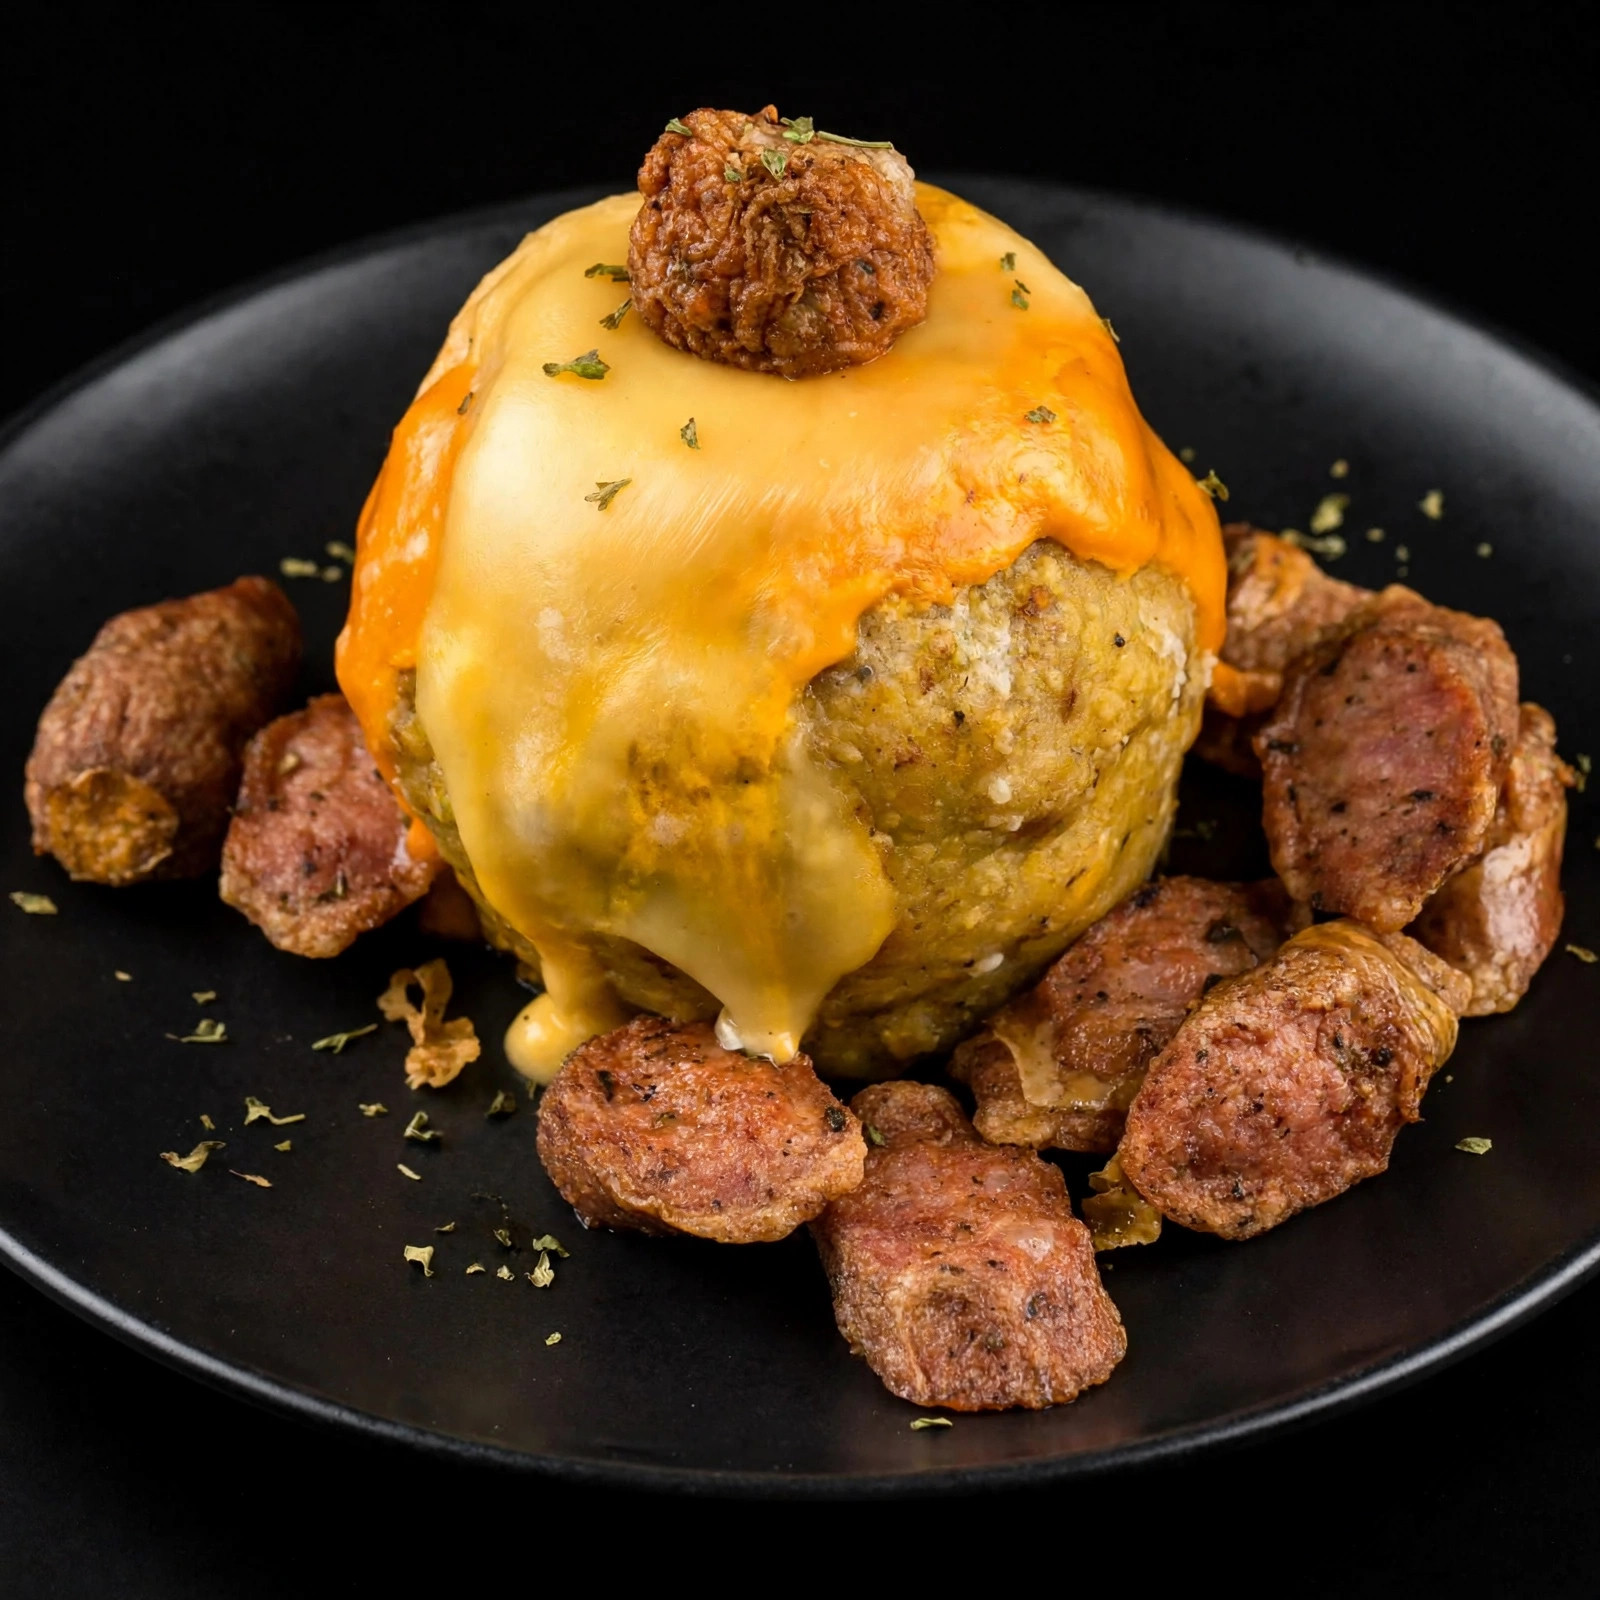
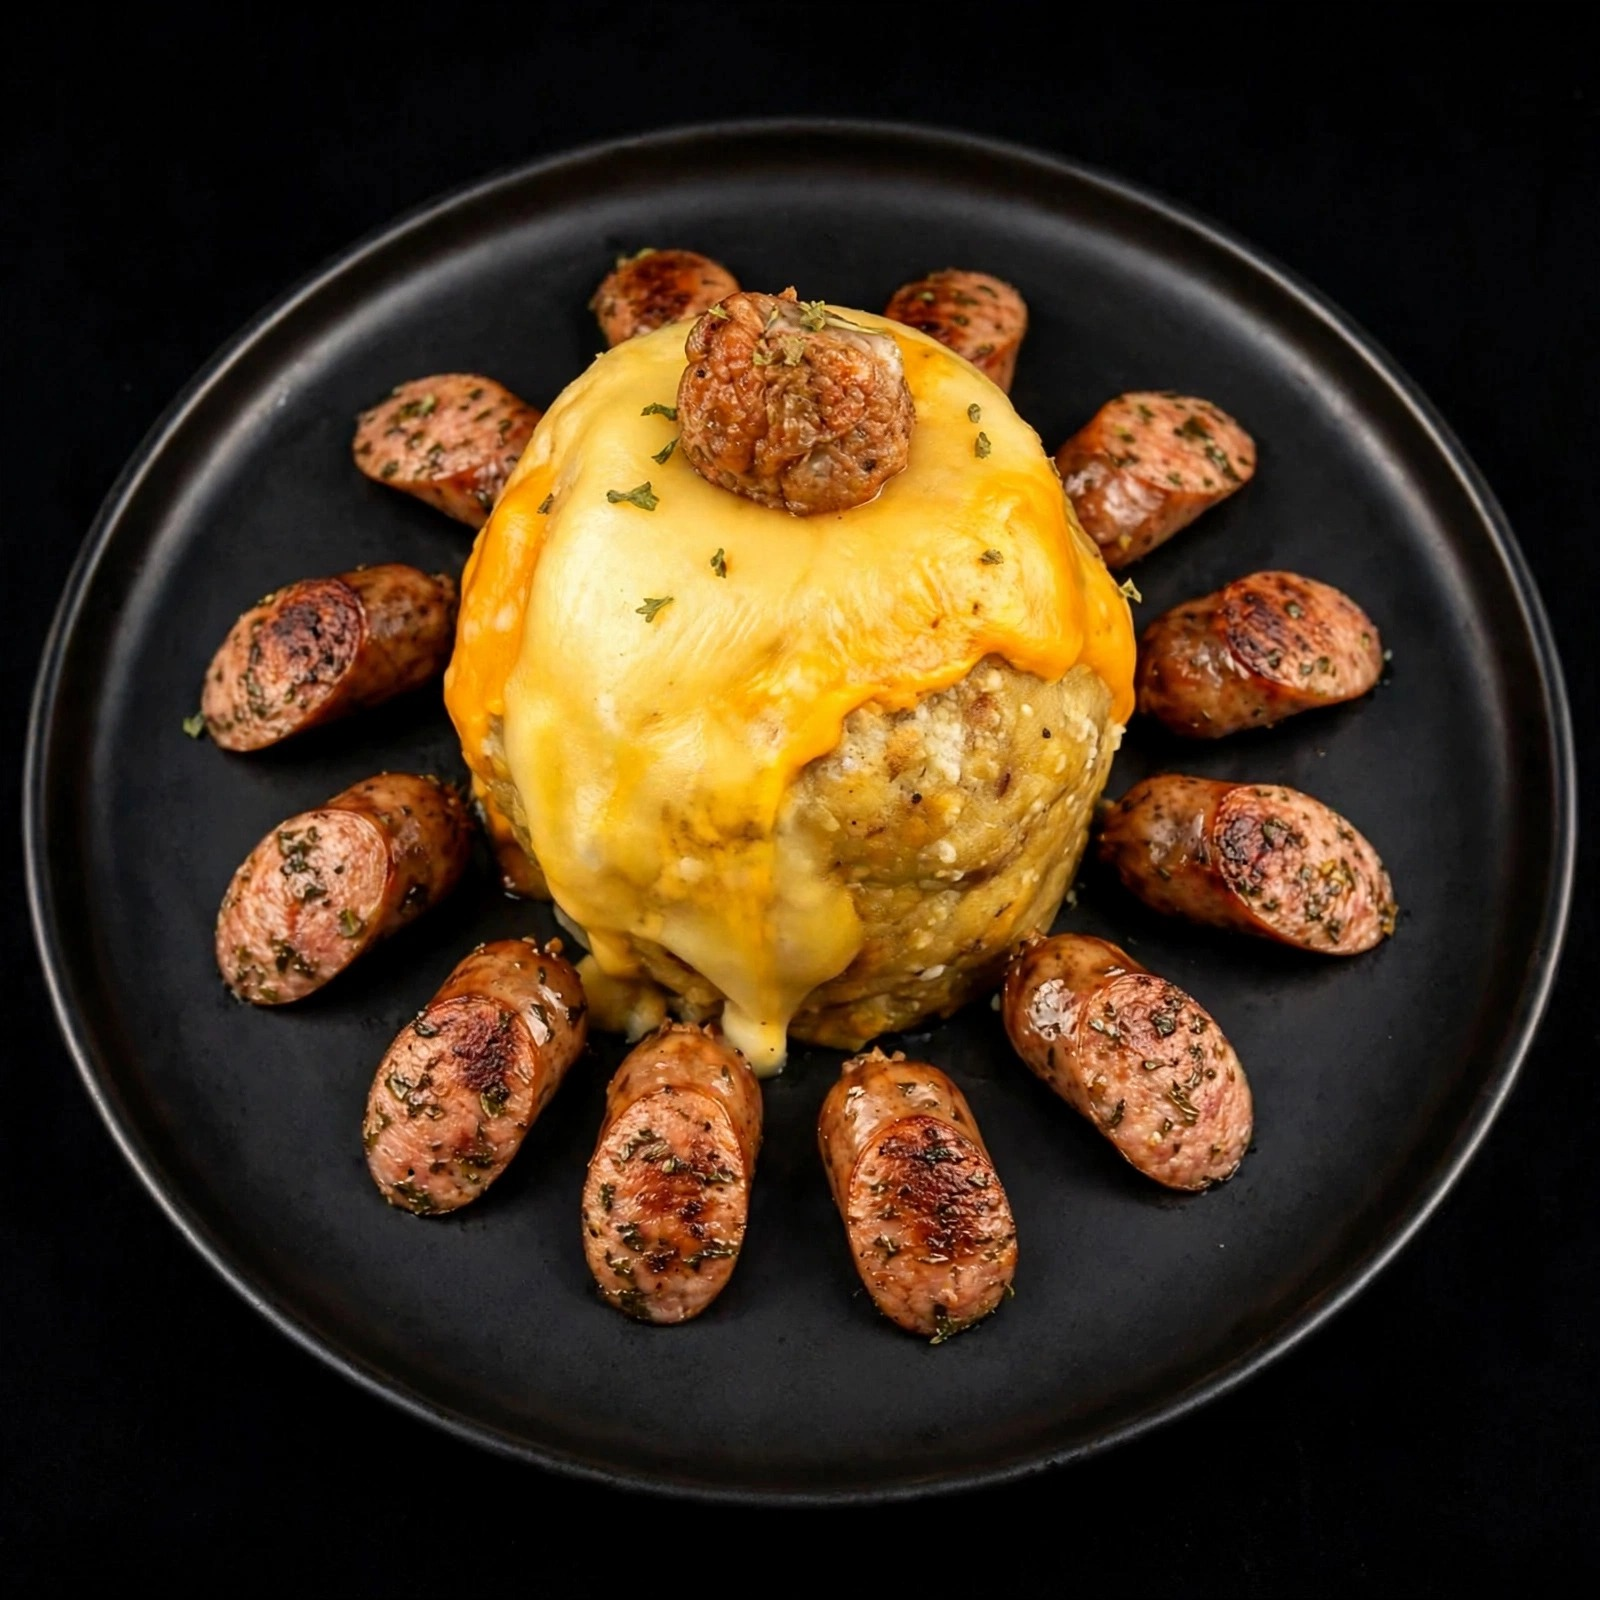
Use recreated black-plate photos for all 29 dishes; remove hours from navbar
- Stage all 29 recreated JPGs (incl. redone mofongo-con-longaniza and
  yaroa) into src/assets/images/dishes/; add platePhoto to every dish in
  src/data/menu.ts so all dish cards (menu grid + favorites) use the
  recreated photo; home gallery switches to the recreated versions too.
  Hero chimi (23), storefront (28) and interior (25) stay the real photos.
- Regenerate pescado-con-fritos: the first version's tail fin touched the
  bottom rim; new version centers the fish with clear plate margin.
- Remove the MIÉ–DOM hours element (.cs-hours) from the navbar on all
  breakpoints; hours stay in the hero info line, VisitInfo and footer.

diff --git a/src/data/menu.ts b/src/data/menu.ts
@@ -1,6 +1,6 @@
 import type { ImageMetadata } from "astro";
 
-// Dish photos live in src/assets/images/dishes/ (31 real WebP + 4 recreated
+// Dish photos live in src/assets/images/dishes/ (31 real WebP + 29 recreated
 // black-plate JPG). Resolved with import.meta.glob so <Image> gets real
 // metadata without 35 static imports.
 const images = import.meta.glob<{ default: ImageMetadata }>(
@@ -26,7 +26,7 @@ export interface Dish {
 	category: string;
 	/** real photo file in src/assets/images/dishes/ */
 	photo: string;
-	/** recreated black-plate shot (only the 4 favorites have one) */
+	/** recreated black-plate shot (all 29 dishes have one) */
 	platePhoto?: string;
 	options: DishOption[];
 }
@@ -65,6 +65,7 @@ export const DISHES: Dish[] = [
 		desc: "Clásico hot dog de la casa.",
 		category: "hamburguesas",
 		photo: "04-hot-dog.webp",
+		platePhoto: "hot-dog-black-plate.jpg",
 		options: [{ label: "Clásico", price: 150 }],
 	},
 	{
@@ -73,6 +74,7 @@ export const DISHES: Dish[] = [
 		desc: "Hot dog con papas fritas.",
 		category: "hamburguesas",
 		photo: "05-hotdog-con-papas.webp",
+		platePhoto: "hotdog-con-papa-black-plate.jpg",
 		options: [
 			{ label: "Solo", price: 150 },
 			{ label: "Con papa", price: 250 },
@@ -93,6 +95,7 @@ export const DISHES: Dish[] = [
 		desc: "Mofongo con pechuga a la plancha.",
 		category: "mofongo",
 		photo: "29-mofongo-con-camarones-a-la-crema.webp",
+		platePhoto: "mofongo-con-pechuga-black-plate.jpg",
 		options: [{ label: "Plato", price: 450 }],
 	},
 	{
@@ -101,6 +104,7 @@ export const DISHES: Dish[] = [
 		desc: "Mofongo con camarones a la crema.",
 		category: "mofongo",
 		photo: "29-mofongo-con-camarones-a-la-crema.webp",
+		platePhoto: "mofongo-con-camarones-a-la-crema-black-plate.jpg",
 		options: [{ label: "Plato", price: 600 }],
 	},
 	{
@@ -118,6 +122,7 @@ export const DISHES: Dish[] = [
 		desc: "Chuleta a la plancha con papas fritas.",
 		category: "plancha",
 		photo: "01-chuleta-a-la-plancha-con-papas.webp",
+		platePhoto: "chuleta-a-la-plancha-black-plate.jpg",
 		options: [{ label: "Plato", price: 400 }],
 	},
 	{
@@ -126,6 +131,7 @@ export const DISHES: Dish[] = [
 		desc: "Papas fritas, fritos o ensalada.",
 		category: "plancha",
 		photo: "06-chuleta-a-la-plancha-con-ensalada.webp",
+		platePhoto: "chuleta-con-ensalada-black-plate.jpg",
 		options: [
 			{ label: "Sola", price: 350 },
 			{ label: "Con frito o papa", price: 400 },
@@ -137,6 +143,7 @@ export const DISHES: Dish[] = [
 		desc: "Papas fritas o fritos y ensalada.",
 		category: "plancha",
 		photo: "26-pechuga-a-la-plancha.webp",
+		platePhoto: "pechuga-a-la-plancha-black-plate.jpg",
 		options: [{ label: "Plato", price: 400 }],
 	},
 	{
@@ -145,6 +152,7 @@ export const DISHES: Dish[] = [
 		desc: "Papas fritas, fritos o mofongo.",
 		category: "plancha",
 		photo: "19-pechuga-a-la-crema.webp",
+		platePhoto: "pechuga-a-la-crema-black-plate.jpg",
 		options: [{ label: "Plato", price: 475 }],
 	},
 	{
@@ -153,6 +161,7 @@ export const DISHES: Dish[] = [
 		desc: "Papas fritas, fritos o mofongo.",
 		category: "plancha",
 		photo: "19-pechuga-a-la-crema.webp",
+		platePhoto: "camarones-a-la-crema-black-plate.jpg",
 		options: [{ label: "Plato", price: 600 }],
 	},
 	{
@@ -161,6 +170,7 @@ export const DISHES: Dish[] = [
 		desc: "Pierna con frito o papa.",
 		category: "plancha",
 		photo: "17-pierna-con-frito.webp",
+		platePhoto: "pierna-con-frito-black-plate.jpg",
 		options: [{ label: "Plato", price: 450 }],
 	},
 	{
@@ -169,6 +179,7 @@ export const DISHES: Dish[] = [
 		desc: "Pescado frito con fritos.",
 		category: "plancha",
 		photo: "27-pescado-con-fritos.webp",
+		platePhoto: "pescado-con-fritos-black-plate.jpg",
 		options: [{ label: "Plato", price: 450 }],
 	},
 	{
@@ -193,6 +204,7 @@ export const DISHES: Dish[] = [
 		desc: "Patacón con pollo o pierna.",
 		category: "yaroa",
 		photo: "18-patacon.webp",
+		platePhoto: "patacon-black-plate.jpg",
 		options: [
 			{ label: "Pollo", price: 250 },
 			{ label: "Pierna", price: 325 },
@@ -204,6 +216,7 @@ export const DISHES: Dish[] = [
 		desc: "De pierna, con repollo, tomate y salsas de la casa.",
 		category: "yaroa",
 		photo: "23-chimi-de-pierna.webp",
+		platePhoto: "chimi-de-pierna-black-plate.jpg",
 		options: [
 			{ label: "Solo", price: 250 },
 			{ label: "Con papas", price: 350 },
@@ -215,6 +228,7 @@ export const DISHES: Dish[] = [
 		desc: "Pollo, res o pierna.",
 		category: "yaroa",
 		photo: "21-burritos.webp",
+		platePhoto: "burritos-black-plate.jpg",
 		options: [
 			{ label: "Solo", price: 125 },
 			{ label: "Con papa", price: 250 },
@@ -226,6 +240,7 @@ export const DISHES: Dish[] = [
 		desc: "Pollo, res o pierna, con papas fritas.",
 		category: "yaroa",
 		photo: "07-burrito-con-papas.webp",
+		platePhoto: "burrito-con-papa-black-plate.jpg",
 		options: [
 			{ label: "Pollo o res", price: 250 },
 			{ label: "Pierna", price: 300 },
@@ -237,6 +252,7 @@ export const DISHES: Dish[] = [
 		desc: "Normal, pollo o res.",
 		category: "sandwiches",
 		photo: "30-sandwich.webp",
+		platePhoto: "sandwich-black-plate.jpg",
 		options: [
 			{ label: "Normal", price: 100 },
 			{ label: "Pollo", price: 150 },
@@ -249,6 +265,7 @@ export const DISHES: Dish[] = [
 		desc: "Jamón y queso, vegetales, pollo, res, huevo o completa.",
 		category: "sandwiches",
 		photo: "08-club-sandwich.webp",
+		platePhoto: "tostadas-black-plate.jpg",
 		options: [
 			{ label: "Jamón y queso", price: 60 },
 			{ label: "Con vegetales", price: 75 },
@@ -264,6 +281,7 @@ export const DISHES: Dish[] = [
 		desc: "Club sándwich de la casa.",
 		category: "sandwiches",
 		photo: "08-club-sandwich.webp",
+		platePhoto: "club-sandwich-black-plate.jpg",
 		options: [{ label: "Plato", price: 350 }],
 	},
 	{
@@ -272,6 +290,7 @@ export const DISHES: Dish[] = [
 		desc: "Pollo, res o cerdo.",
 		category: "sandwiches",
 		photo: "13-pasteles-en-hoja.webp",
+		platePhoto: "pasteles-en-hoja-black-plate.jpg",
 		options: [{ label: "Plato", price: 200 }],
 	},
 	{
@@ -280,6 +299,7 @@ export const DISHES: Dish[] = [
 		desc: "Papas fritas con queso derretido.",
 		category: "extras",
 		photo: "10-papa-con-queso.webp",
+		platePhoto: "papa-con-queso-black-plate.jpg",
 		options: [
 			{ label: "Pequeña", price: 150 },
 			{ label: "Mediana", price: 250 },
@@ -292,6 +312,7 @@ export const DISHES: Dish[] = [
 		desc: "Salchicha con papas fritas.",
 		category: "extras",
 		photo: "16-salchipapas.webp",
+		platePhoto: "salchipapas-black-plate.jpg",
 		options: [
 			{ label: "Pequeña", price: 150 },
 			{ label: "Mediana", price: 250 },
@@ -304,6 +325,7 @@ export const DISHES: Dish[] = [
 		desc: "Frito con jamón.",
 		category: "extras",
 		photo: "20-frito-con-jamon.webp",
+		platePhoto: "frito-con-jamon-black-plate.jpg",
 		options: [
 			{ label: "Pequeño", price: 200 },
 			{ label: "Mediano", price: 250 },
@@ -316,6 +338,7 @@ export const DISHES: Dish[] = [
 		desc: "Jamón con papa.",
 		category: "extras",
 		photo: "22-jamon-con-papa.webp",
+		platePhoto: "jamon-con-papa-black-plate.jpg",
 		options: [
 			{ label: "Pequeña", price: 150 },
 			{ label: "Mediana", price: 250 },
@@ -328,6 +351,7 @@ export const DISHES: Dish[] = [
 		desc: "Picante, BBQ o normal — con papa o frito · 5 alitas.",
 		category: "extras",
 		photo: "03-alitas-fritas.webp",
+		platePhoto: "alitas-fritas-black-plate.jpg",
 		options: [{ label: "5 alitas", price: 400 }],
 	},
 	{
@@ -336,6 +360,7 @@ export const DISHES: Dish[] = [
 		desc: "Porción de papa o frito.",
 		category: "extras",
 		photo: "09-hamburguesa-con-papas-tray.webp",
+		platePhoto: "servicio-de-papa-o-frito-black-plate.jpg",
 		options: [{ label: "Porción", price: 100 }],
 	},
 ];
